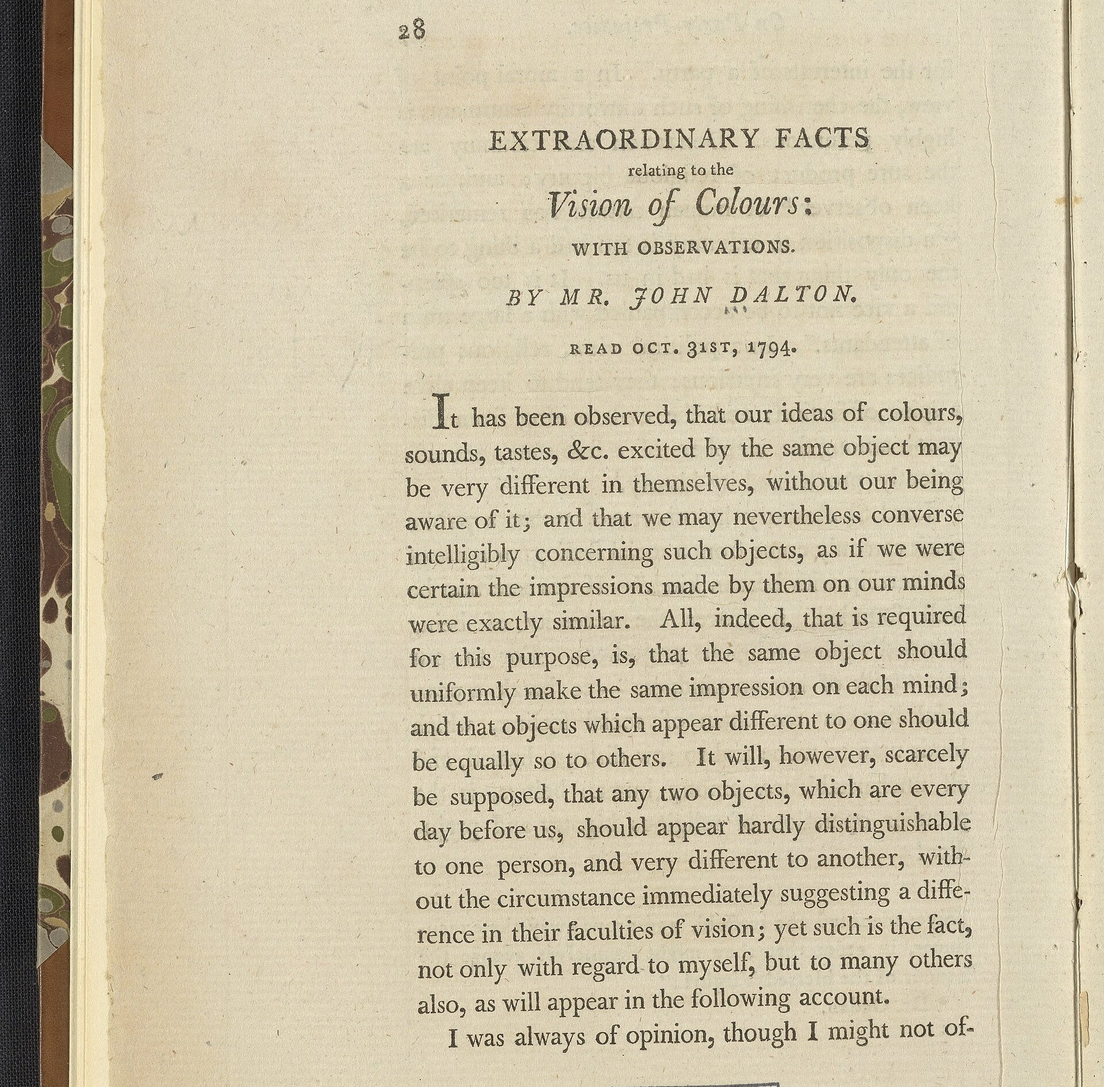
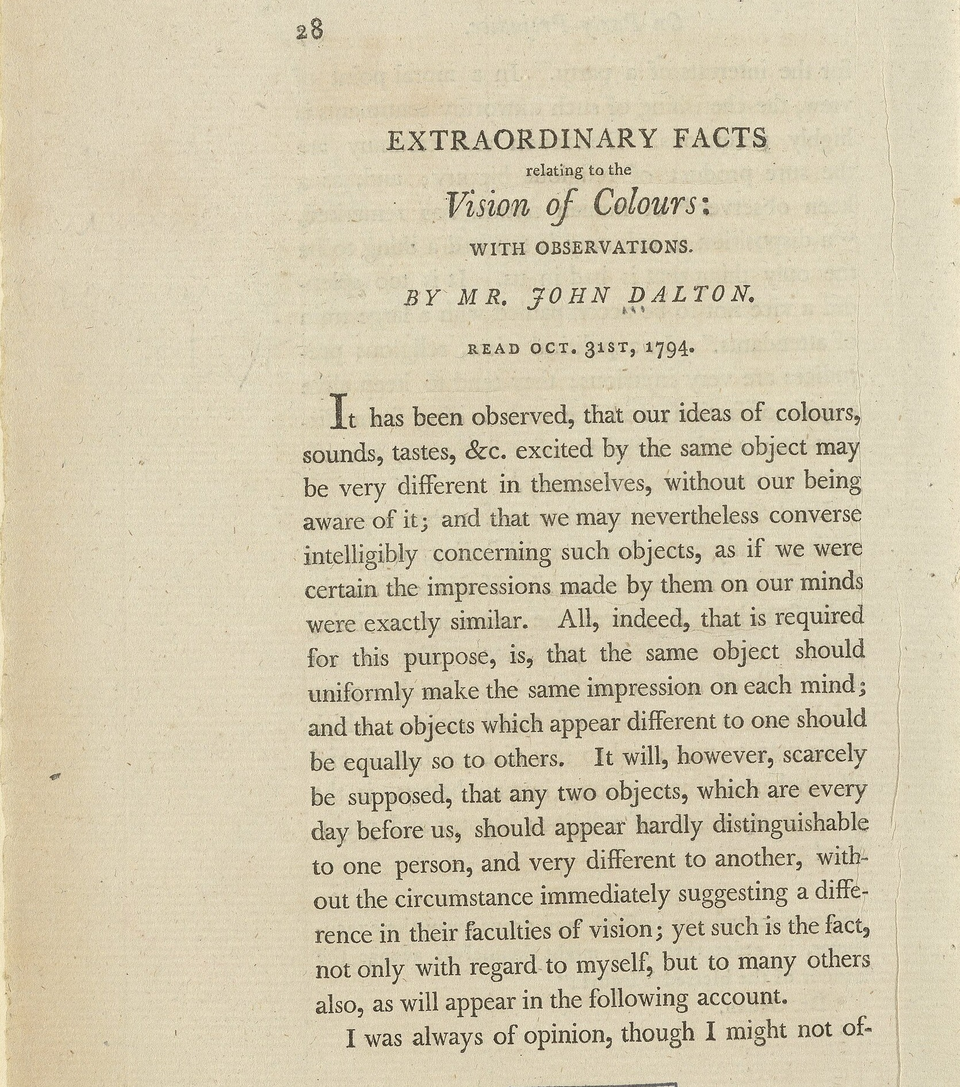
Act 3: Director brief, plan updated from it, p.28 cropped to the page
Claude-Session: https://claude.ai/code/session_011jaAAq7eeiJfiwMhe2vVQR

diff --git a/toolkit/episodes_src/WCL-E01/director/ep01-act03_brief.md b/toolkit/episodes_src/WCL-E01/director/ep01-act03_brief.md
@@ -1,0 +1,241 @@
+# WCL-E01 act 3 "The talk": Director's brief (directed shots)
+
+Written 23 Nov 2026, before the build, from `director/ep01-act03_plan.md`, script lines a3-01 to a3-15 (`WCL-E01_script_v2.json`), the gate 1 on-screen fact-check (`gate1_act3_onscreen_factcheck.md`) and the coordinator's fact-check items 1-10 (same day). The narration is not recorded yet, so every time is a word cue: "on 'laurel'" means the frame the word starts. When the paced take exists, the builder turns cues into seconds with the house offsets (a tag's landing sound on the settle frame, about atSec + 0.23 s; exits about 0.2 s early when they must clear a cut).
+
+Frame 1920x1080, 30 fps, house theme LOK-009. Calm version throughout (rule 12).
+
+Pictures I looked at: `manchester_plan_1794.jpg` (1920x1280, a crop of Green's plan), `dalton1798_p28.jpg` (1920x1890), `p30`, `p34`, `p43` (1920 wide), `henry1854_p25.jpg` (2288x4010), `laurel_runicearth.jpg` and `laurel_runicearth_leaf_cutout.png` (800x700), `sealingwax_petrik.jpg` and `sealingwax_petrik_cutout.png` (438 wide x 497 high), and the last frame of `WCL-E01_act2_v10.mp4` (BuildUpMap, eye on the "Why?" node at about (744, 424)). All coordinates in "image px" are pixels of the file named. All others are frame px.
+
+**Shot list (directed shots get a full table; plain cards get one line at the end):**
+
+| Shot | Lines | Component | Transition in |
+|---|---|---|---|
+| A_manchester_talk | a3-01, a3-02, a3-03 to "reads out a paper." | LayerStage (VIS-059) | from the act slate |
+| A2_title_match | a3-03 from "Its title is" | ArchivalScanCard p.28 | focus match (TRN-015) from A's page |
+| (card) | a3-04 | ArchivalScanCard p.34 | slide |
+| B_leaf_and_wax | a3-05, a3-06 | LayerStage (VIS-059) | push (TRN-006) from the p.34 card's laurel line |
+| (card) | a3-07 | SpectrumStrip x2 | cut |
+| D_into_the_eye | a3-08, a3-09, a3-10 to "It's tinted." | EyeDiagram, section | cut on the swell's hit |
+| (card) | a3-10 from "In his words" | ArchivalScanCard p.43 | cut |
+| C_carry_into_eye | a3-11 | EyeDiagram, section, + two carried cut-outs | cut back to the same eye |
+| (cards) | a3-12, a3-13, a3-14 | p.43 card, EyeDiagram simple, Henry strip | cut, cut, lens (TRN-017) |
+| E_dark_room | a3-15 | KineticLine, then PerspectiveGrid room | focus match (TRN-015) into the room |
+
+---
+
+## A_manchester_talk
+
+**The idea:** the plan is the town of the talk in its year. The college where he teaches is marked on it in the plan's own engraving ("Academy"). Then the paper he read that night is held up in front of the town.
+
+| Field | What it says |
+|---|---|
+| Line | a3-01 "So Dalton takes his question to the experts. Manchester, the last day of October, seventeen ninety-four." a3-02 "He moved to the town the year before. He's twenty-eight. He teaches mathematics and natural philosophy, the old name for the study of nature, at a college called the New College." a3-03, first sentence: "Tonight, he stands up in front of the town's Literary and Philosophical Society and reads out a paper." The shot ends at the match on "Its title is". |
+| Subject | One at a time. a3-01: the town, named by the dateline. a3-02: the New College, which is the building the plan itself labels "Academy". a3-03: the paper (p.28). |
+| World and why | SRC-009, Green's plan of Manchester (begun 1787, completed 1794). **Same place, same year.** `why: "Same place, same year: Manchester as Green finished mapping it in 1794, the year of the talk; the plan itself marks the college where Dalton taught."` |
+| Period honesty | A period map, labelled throughout `PLAN OF MANCHESTER · WILLIAM GREEN · 1794`, with the holder as the register gives it. No modern picture in the shot. SRC-009 limit: always with a dateline tag (it has one). |
+| Entry | The act slate is centred, so the eye is at frame centre. The world fades in under it (LayerStage pIn, 0.6 s). The DatelineTag starts `at: "low-centre"` (960, 860), just below where the eye already is. That spot is the open ground under St Peter's on the plan (image px about (915, 745)). Part 1 `MANCHESTER` arrives on "Manchester". Part 2 `· 31 OCT 1794` arrives on "October". `toCornerAtSec` on "moved" (a3-02) eases it to the corner (120, 84), out of the way of the college. |
+| Path and landing | **Framing:** `zoom 1.1`, `focus [0.4769, 0.37]`. That puts the "Academy" building (image px about (1185, 280)) at frame **(1280, 310)**, on the right third and upper third. It ends at about (1271, 307) after the camera move. St Peter's Church lands at about (1042, 702). The world's edges stay off frame through the whole move: left -128, right 2153, top -23, bottom 1498. **Facts (Labels, centred on x 1280, under the college):** `AGE 28` at y 490 on "twenty-eight". `TUTOR · MATHEMATICS AND NATURAL PHILOSOPHY` at y 536 on "mathematics" (about x 955-1605). **College:** a ring (MAP-008), centre (1280, 307), r 125, drawn on "college" ("at a college called"). It goes round the hatched building and leaves the engraved word "Academy" (frame about x 1268-1327, y 231-356) readable inside it. `NEW COLLEGE` (accent, `settle`) sits centred above the ring at (1280, 135) and lands on "New College". So the plan's own word and our label say the same thing. **Page (p.28):** a cut-out of the page only (see Asset 2), `w 560` (h about 637). It rises on "paper" and lands at **(560, 780)**: x 280-840, y 462-1098. Its bottom edge sits off frame on purpose. It is held up from below, the way he "stands up ... and reads out a paper", and that hides the scan's cut bottom edge. Its lead room faces right, towards the college. |
+| Scale | None for the world, apart from the camera's push. The page does not change size here. It grows by the match into the card (A2): we go into it. |
+| Action | The ring draws (0.7 s). The page takes the plan's light and lands lifted, with a soft shadow falling down and to the right. |
+| Exit | **Tags first.** `AGE 28` and `TUTOR · ...` un-wipe on "Tonight" (a3-03). `NEW COLLEGE` and the ring un-wipe 0.3 s later, so the right side is clear before the page comes. The dateline gets `untilSec` on "title" (a3-03), so it is gone just before the match. **The page does not leave.** A focus match (TRN-015) on "Its title is" opens A2's card in its place. |
+| Eye out | The page centre (560, 780). A2's card is centred on (568, 540), and the title it highlights first is at about (270-840, 180-220). The blur dissolve carries the eye up the page in place. |
+| Sound | The bed carries the world in. The dateline is silent (house). The pencil texture plays at -29 dB under the ring draw, which falls in the pause after "New College." SFX-016 `paper_move` at -24 dB plays on the page's settle frame (rise atSec + about 0.7 s), in the pause after "paper.". SFX-024 swish for the match plays in the pause before "Its". |
+
+**LayerStage choices**
+- `worlds[0]`: `{ atSec: 0, srcId: "SRC-009", kind: "image", size: [1920, 1280], zoom: 1.1, focus: [0.4769, 0.37], light: "paper"` (see Builder 4; fall back to `"none"`)`, haze: 0.06, blur: 1.5, rackSec: <the page's atSec>, lightFrom: "top-left", label: "PLAN OF MANCHESTER · WILLIAM GREEN · 1794", why: ... }`.
+- **Haze 0.06** only. For about 20 s the plan is the subject. Rule 14 says never blur the world's subject while the narration is about it, so the blur (1.5 px) racks in only when the page arrives, as the line moves from the town to the paper. The ring and labels have already un-wiped by then, so nothing we drew goes soft.
+- **lightFrom: there is no light in the picture.** It is an engraved plan, and the scan is evenly lit with no fall-off. I use the house `"top-left"` (the Weather shot), so the page's shadow falls down and right onto open plan and away from the dateline corner. This agrees with the seal photo's own light (see B).
+- **Lifted, not resting** (`rest` false, `enter: "rise"`). A page lying flat on a flat map would slide across it under parallax (near plane 1x, far plane 0.35x), which is wrong for a resting thing. A held-up paper can parallax, and the line has him stand up and read.
+- **Camera:** `{ pan: -40, push: 0.03 }`. The planes drift left, so the camera moves right, towards the college. That is the one slow move, and it has a destination (rule 6, rule 18).
+- **Where text sits:** the dateline starts in open ground low-centre, then goes to the top-left corner (built-up streets, on a chip). The facts sit under the ring over minor street names (Dickenson, Bond), 58 px below the ring. The college name sits above the ring in the top band (top about 120, inside the 84 px safe line). The world label sits bottom-right over the open fields ("Salford Poor" is at about y 951, 30 px above the chip).
+- **What the move uncovers:** the pan brings about 14 px more of the plan in on the right. Nothing is covered and then revealed: the labels leave before the page arrives, and the page never leaves.
+- **Rule 4 (the world's own subject):** the subject is the college, with the engraved word "Academy". The ring goes round the building, so nothing sits on it. The page's right edge (x 840) stays 300+ px from the ring and 130 px from St Peter's. The dateline corner covers only built-up streets.
+- **Rule 16 (lines tying planes):** passes. The plan's long straight streets (Peter Street, Cooper Street, the Oxford road) stay in the far plane, and no near thing continues them. The page is an upright rectangle on a plan whose streets run at about 55°, so there is no false joint. The ring must ride the far plane (Builder 2), or it will slip about 14 px off the building over the shot, and that is exactly the cardboard tear rule 16 warns about.
+- **Rule 13 (three planes):** far = the plan; near = the page. There is no mid plane, and that is accepted: the plan's own building hatching, stippled fields and hedges give the far plane texture at two scales.
+- **Stillness:** the dateline parts (a3-01), the corner move ("moved"), `AGE 28`, `TUTOR`, the ring and `NEW COLLEGE`, the un-wipes ("Tonight"), the page ("paper") and the match. The longest gap is "He moved to the town the year before. He's", about 3 s, and it holds the corner move. The camera moves throughout.
+
+**Changes to the plan (rule or fact-check):**
+1. **No pin on "Manchester".** The coordinator asked for the pin to stay "general on 'Manchester'", but on a street plan of Manchester a pin always names one street. Any spot I pick would say "the talk was here", and that is false: until Dec 1799 the Society met at Cross Street Chapel, which is outside this crop. It would also break rule 6 (a destination with no meaning). The dateline tag is the general marker. The only mark on the plan is the ring on the college, labelled as the college. It never says the talk was there, because the labels un-wipe on "Tonight", before the talk is described. If Sam wants a pin on the talk, it needs a wider crop of the plan with Cross Street Chapel in it (see Needs registering).
+2. The college label is split into three timed pieces with the fact-checked words (NEW COLLEGE · TUTOR · AGE 28, plus the subject). That way each lands on its own word and none sits on screen ahead of it.
+3. The plan's "p.28 rises onto the plan with the title and READ highlighted" is split. The page arrives in A, and the highlights are done on a card in A2. At w 560 on the plan the title is about 15 px tall, which cannot be read, and LayerStage cannot highlight a carried thing.
+
+## A2_title_match (focus match into the p.28 card)
+
+| Field | What it says |
+|---|---|
+| Line | a3-03 from "Its title is 'Extraordinary facts relating to the vision of colours'. The subject is his own eyes. It's his first paper to the Society." |
+| Subject | The printed title, then "READ OCT. 31st, 1794." |
+| World and why | ArchivalScanCard ground: the same plan, blurred (`ground` blur SRC-009). **Same place, same night.** The card is the paper he read, in front of the town. |
+| Period honesty | A period page. Source tag `JOHN DALTON · 1798 · P. 28`. |
+| Entry | TRN-015 focus match from A's page, in place. `side: "left"` with crop `[700, 160, 1000, 960]` (image px): card x 120-1016, centred on (568, 540). |
+| Path and landing | Highlights in image px, in reading order. `[840, 208, 690, 64]` "EXTRAORDINARY FACTS" on "Extraordinary". `[940, 318, 490, 76]` "Vision of Colours:" on "vision". `[975, 578, 425, 56]` "READ OCT. 31ST, 1794." on "first paper". On the card these sit at about y 180-220, 266-310 and 498-528. Quote column (right): the title without quote marks (`quoteMarks: false`), as the fact-check set it: "Extraordinary Facts relating to the Vision of Colours: with Observations". |
+| Scale | It grows from A's w 560 page to the 896 px card: we go into it. |
+| Action | Three highlight sweeps. |
+| Exit | A slide to the a3-04 p.34 card, which keeps the card's place on the left. It is not a second match: TRN-015 is never two in a row. |
+| Eye out | The READ line, at about (557, 513). The p.34 card's first highlight, ORANGE & YELLOW, is at about (477-796, 154) and is reached by the slide. |
+| Sound | SFX-024 at the match (above). The highlights are silent. |
+
+Asset: `dalton1798_p28.jpg` has a sliver of the cropped library stamp (blue) along the bottom edge at about x 1130-1355, y 1875-1890. The crop above stops at y 1120, so it is out of frame. A's page cut-out must also leave it out (it goes off frame anyway).
+
+---
+
+## B_leaf_and_wax
+
+**The idea:** the two things lift off the page beside the sentence that names them. The page is the world, because the comparison exists only as his written words.
+
+| Field | What it says |
+|---|---|
+| Line | a3-05 "Here's one. The face of a laurel leaf, he says, is a good match to a stick of red sealing-wax. That's the wax people once used to seal letters." a3-06 "Think about that. A green leaf, and a red stick of wax. To you, about as different as two colours get. To him, a match." |
+| Subject | a3-05: his sentence, then the leaf, then the wax. a3-06: the two things, ending as one colour. |
+| World and why | SRC-002, Dalton 1798 p.34, framed on the laurel sentence. **Same idea:** the exact words that make the comparison. The things come off the page that names them. `why: "Same idea: the sentence on p.34 where Dalton matches the laurel leaf to red sealing-wax; the two things lift off the page that names them."` |
+| Period honesty | A period page with world label `JOHN DALTON · 1798 · P. 34`. The two cut-outs are modern photos. The LayerStage `caption` (bottom-left, static) reads `PHOTOS TODAY · CHERRY LAUREL, RUNIC EARTH · WAX SEAL, PETRIK` (credit wording per register). The wax carries the state label `A WAX SEAL · TODAY` (coordinator item 5: the picture must not be called a stick). The olive is labelled `SIMULATION · ONE WAY` / `HE MAY HAVE SEEN THEM` (rule 19). |
+| Entry | A push (TRN-006) from the p.34 card's last highlight, the laurel line. With the a3-04 crop below, that is at about **[620, 598]**; measure it on the a3-04 still (DIRECTOR_NOTES, act 2 14+15). The world opens with the same line at frame (605-1822, 450), so the eye moves about 150 px. The world's highlights H1 and H2 are lit from frame 0, carried over from the card. |
+| Path and landing | **Framing:** `zoom 1.15`, `focus [0.538, 0.4797]` (s = 1.242). The frame shows image px x 260-1806, y 973-1842. The left page margin (image x 260-750) becomes a clear paper column at frame x 0-605. The text column is at x 605-1822. The GREEN heading is at the top (y about 141), which tells the viewer which part of the list this is. **Sentence (world highlights, image px):** H1 `[1645, 1252, 80, 50]` "The"; H2 `[745, 1308, 980, 54]` "face of a laurel-leaf (*Prunus Lauro-cerasus*) is a good" (frame y about 417-484); H3 `[745, 1366, 690, 54]` "match to a stick of red sealing-wax" (frame y about 489-556, ending at x 1447, before the semicolon). H3 lands on "match". **Leaf** (`laurel_runicearth_leaf_cutout.png`, [800, 700], `w 300`, h 263) rises on "leaf" ("laurel leaf") and lands at **(330, 360)**: x 180-480, y 229-491, top 21% of the frame, 125 px from the text column. **Wax** (`sealingwax_petrik_cutout.png`, [438, 497], `w 200`, h 227) rises on "sealing" and lands at **(330, 690)**: x 230-430, y 577-804. The pair brackets the sentence in height, with the leaf above its line and the wax below its line, and both face right towards their words. |
+| Scale | None. Both things become smaller in C, where they are part of a bigger picture (rule 7). |
+| Action | **One state change, for both at once, on "match" ("To him, a match"):** `color: "#574F18"`. That is the coordinator's target olive from the Machado deuteranope simulation of these two cut-outs (leaf #4F492A, wax #5F5405). It is not hand-picked. The leaf's and the wax's own colours stay untouched before that. The wax's earlier state label `A WAX SEAL · TODAY` (state on "seal letters", under the wax at y 826-864, x about 158-502) un-wipes automatically when the olive state starts. The SIMULATION label (world `labels`, x 120, y 830 and 868, size 22, left-aligned, x 120-470) comes in 0.45 s after "match", so the two never overlap. |
+| Exit | Labels first. The SIMULATION label `untilSec` and the caption `captionUntilSec` start about 0.6 s before the cut. Then a hard cut after "a match." to the SpectrumStrip. The things do not move out. |
+| Eye out | The olive pair at x 330 (y 360 and 690), with the label under them. The SpectrumStrip's title starts at x 210, y 250, and its strip at x 210, y 470: within 25% of the pair. |
+| Sound | SFX-020 low whoosh (-21.6 dB) in the pause before "Here's one" for the push. The house soft pop (-24 dB) plays on each settle frame: the leaf's falls in the comma pause after "laurel leaf," and the wax's in the full stop after "sealing-wax.". The olive state and the labels are silent. |
+
+**LayerStage choices**
+- `worlds[0]`: `{ atSec: 0, srcId: "SRC-002", kind: "image", size: [1920, 2934], zoom: 1.15, focus: [0.538, 0.4797], light: "paper"` (or `"none"`)`, haze: 0.08, blur: 2, rackSec: <"Think" (a3-06)>, lightFrom: "top-left", label: "JOHN DALTON · 1798 · P. 34", highlights: [H1, H2, H3], why: ... }`.
+- **Rack at "Think about that"**, not earlier. Through a3-05 the printed sentence is the subject and must stay sharp (rule 14). From a3-06 the subject is the two things, so the page softens to 2 px and the highlights soften with it.
+- **The on-screen quote is the page's own printed sentence**, highlighted and readable (x-height about 27 px at this scale). It is exact by definition, and it carries the print's italics. The highlight stops before the semicolon, which does the ellipsis's job. I recommend **no typed duplicate** in this shot: there is no open space for one, and two copies of one sentence would compete (rule 2). If the fact-check insists on typed text, the only clean place is a chip strip at the top, `"The face of a laurel-leaf (Prunus Lauro-cerasus) is a good match to a stick of red sealing-wax…"`. That would be serif 34 px with the Latin in italics, x 160-1760, y 110-160, on from "Here's one" until "Think". It would sit over the grass lines, not over the laurel sentence, with 70 px above the leaf.
+- **lightFrom "top-left", read from the pictures.** The page scan is evenly lit (copy stand), so it decides nothing. The seal photo is lit from the top-left: its upper-left rim is bright and its shadow sits lower right. The leaf is backlit (Asset 4). "top-left" agrees with the seal, with the house convention, and with shot A. The shadows fall down and right, a few px towards the text column, and are never thrown onto the highlighted lines (the things are 125 px clear).
+- **Lifted, not resting** (`rest` false, `enter: "rise"`, 140 px, 0.9 s). The plan says they "come off p.34", and lifted things may parallax. Resting things would slide over the words.
+- **Camera:** `{ pan: -40, push: 0.03 }`. The camera drifts right, towards the sentence, so the things keep their lead room. The far plane moves -14 px and the right edge then shows image x about 1817, still paper (the page edge and gutter start at about 1860). No tearing.
+- **Where text sits:** all our text is in the paper margin (x 120-502), 100+ px from the text column. Nothing sits on the page's text.
+- **What the moves uncover:** the rises cover only margin paper. The un-wiping wax label reveals margin paper. There is a small foxing spot at image px about (506, 1342), frame about (318, 457), under the leaf. It is period paper and fine either way.
+- **Rule 4:** the world's subject is the sentence at frame y 345-556, x 605-1822. Nothing lands on it. The plan said the things land "on their words", which would break rule 4, so this brief changes it to **beside** their words.
+- **Rule 16:** passes. The page's text lines are horizontal and stay in the far plane. The text column's left edge (x 605) is a vertical line that no cut-out touches or continues. The leaf's straight bottom edge (Asset 4) is not parallel to any page line.
+- **Rule 13:** far = the page (print, paper grain, show-through); near = the two things. There is no mid plane. As in A, the page's own grain and type give it texture.
+- **Stillness:** the push, H3 ("match"), the leaf ("leaf"), the wax ("sealing"), the wax label ("seal letters"), the rack ("Think"), the olive ("match") and the SIMULATION label. The longest gap is "A green leaf, and a red stick of wax. To you, about as different as two colours get." (about 4.5 s), which goes over the 3.5 s limit. The camera moves throughout. If the frame review finds it still, add a `TO YOU` label on "To you" in the margin at (120, 830), un-wiping on "To him". Do not add a colour change there.
+
+---
+
+## D_into_the_eye (cut on the hit into the cross-section)
+
+| Field | What it says |
+|---|---|
+| Line | a3-08 "Then he does what a scientist should. He offers an explanation." a3-09 "Your eye isn't hollow ... Light passes through it on its way to the back of the eye." a3-10 to "It's tinted." |
+| Subject | The eye, then the jelly, then the jelly tinted. |
+| World and why | None. This is a drawn diagram (VIS-019 section) on the theme canvas. It is plainly a diagram, so it needs no tag until the tint (below). |
+| Period honesty | While the jelly is blue, the corner tag reads `DALTON'S GUESS` (fact-check 7). The lens is drawn as a separate part, which the component already does. |
+| Entry | The SpectrumStrip holds through "Then he does what a scientist should." under the swell. The cut is on the swell's hit, at "He offers", and the cross-section draws in (0.9 s) on "explanation". The eye's centre (960, 540) is the strips' centre (960, about 518), so the eye does not move. The beam starts at x 210, the strip's own left end, so the light in the strip becomes the light going in. |
+| Path and landing | `parts`: `VITREOUS HUMOUR` at (1000, 480) on "vitreous humour". `beat` (the beam) draws on "Light passes" (drawSec 1.4), from x 210 to x 1280 along y 540. Tint: `{ part: "vitreous", color: "#3D6BD6", opacity: 0.5, atSec: <"tinted"> }`. That is act 1's lens tint colour (29+30+31 `inside.tint`), the callback. The tag `{ at: "corner", parts: [{ text: "DALTON'S GUESS", atSec: <"tinted"> }] }` arrives with it. |
+| Scale | The component drift only. |
+| Action | The label, the beam, then the tint. |
+| Exit | A hard cut after "It's tinted." to the p.43 card for "In his words". |
+| Eye out | The tinted jelly at (960, 540). The p.43 card's first highlight, "probably some modi-", lands at about (634-956, 245). That is a jump of about 500 px, carried by a hard cut onto a page. It is accepted, because the card is the same left-card layout the viewer already knows from a3-04. |
+| Sound | The swell-to-hit lands on the cut. The beam is silent, and the bed thins under it. |
+
+Check: `VITREOUS HUMOUR` (secondary ink) sits on the 50% blue once the tint is in. Check its contrast on the still. If it fails, set the label `atSec` so it is read before the tint, and let the tint pass under it.
+
+## (card) a3-10 from "In his words", and a3-12: p.43
+
+One line. A cut to ArchivalScanCard SRC-003, `side: "left"`, crop `[180, 900, 1080, 1040]`. Highlights in image px: `[805, 1048, 405, 46]` "probably some modi-" and `[250, 1098, 315, 46]` "fication of blue." on "probably". `[590, 1098, 620, 46]` and `[250, 1148, 180, 48]` "I suppose it must be the vitreous / humour;" on "supposes". The quote column has "probably some modification of blue", in near-silence (plan). a3-12 is a hard cut back to **the same card in the same place**, with the earlier highlights already lit, adding `[435, 1148, 775, 48]` "otherwise I apprehend it might be disco-" on "Otherwise" and `[250, 1203, 875, 48]` "vered by inspection, which has not been done." on "has not been done". The eye starts on the left card and ends on the bottom highlight, about (540, 385).
+
+---
+
+## C_carry_into_eye
+
+**The idea:** the leaf and the wax come back, in their own colours, out where the light comes from. The light from them crosses the blue jelly, and under his guess both go duller, darker and closer together. Nothing turns olive here: the olive is the modern model, kept to B (fact-check 8).
+
+| Field | What it says |
+|---|---|
+| Line | a3-11 "It makes sense. Think of looking at the world through blue glass. In Dalton's version, the tinted jelly soaks up much of the red and the green light before it reaches the back of the eye. Reds and greens would both look duller, and more like each other. And a red stick of wax might end up looking like a leaf." |
+| Subject | The beam losing its red and green in the jelly, then the two things it comes from. |
+| World and why | D's cross-section, returned to in the same place, already tinted (tint `atSec` at -1.2 s, so it is full from the first frame). **The idea itself:** his guess, drawn. The cut-outs are B's two things. **Same things:** the example he gave, put through his own explanation. |
+| Period honesty | The tag `DALTON'S GUESS` is in the corner throughout (fact-check 7 and 8). The cut-outs keep their B identity, with no caption repeated; the episode description credits them. The result label reads `HIS IDEA:` / `DULLER, AND MORE ALIKE`, which marks the picture as his model and not a record (rule 19). |
+| Entry | A hard cut back from p.43 on "It makes sense." to the identical framing of D. The eye was last there, so nothing jumps. **The things rise (`enter: "rise"`) on the full stop after "back of the eye."** They settle in that pause and are in place for "Reds and greens". They come up on the **left**, the side the light comes from in the diagram (rule 5). B also left them on the left, so the viewer finds them where they were. |
+| Path and landing | **Rays** (VIS-021): `{ colors: [red, green, blue], speed ..., atSec: <"In Dalton's version"> }` from x 210 to x 1280 on y 540. On "soaks up", red and green dots fade to about 30% between path u 0.55 and 0.75, which is the jelly's front edge past the lens at about x 800 (Builder 5). Blue passes. Red **and** green both thin (fact-check 7). **Leaf** w 180 (h 158) lands at **(300, 380)**, x 210-390. **Wax** w 140 (h 159) lands at **(300, 700)**, x 230-370. The beam starts between them at (210, 540), so the light reads as coming from them. Both are 170+ px clear of the cornea (x 560) and clear of the `VITREOUS HUMOUR` label. |
+| Scale | Smaller than in B (300 → 180, 200 → 140). They are now part of a bigger picture: the eye, the beam and the guess (rule 7). |
+| Action | **One state and one move, together, on "duller":** state `{ color: "#3D6BD6", blend: "multiply" }` (Builder 6). That is the jelly's own blue, laid over the things as blue glass would be. On the measured colours, the leaf (57, 84, 41) goes to about (14, 35, 34) and the wax (152, 19, 21) to about (36, 8, 18): both darker, both duller, far closer in brightness, and not the same colour. Moves: the leaf to (300, 440) and the wax to (300, 645), `sec 1.0`, `why: "Closer together as his blue jelly makes them more alike; still two things, not one colour."` The gap between them stays about 45 px, with the beam running through it. The result label lands 0.5 s after "alike" (x 120, y 790 and 830, size 22, left-aligned, x 120-483, outside the eye circle). Nothing new happens on "looking like a leaf". The line pays off a picture that is already there. |
+| Exit | The label un-wipes about 0.6 s before the cut. A hard cut on "He has a reason" (a3-12) to the p.43 card. |
+| Eye out | The pair at (300, 440-645). The p.43 card is on the left (x 120-1012), and its new highlights land at about (540, 330-385): within 25%. |
+| Sound | The house soft pop at -26 dB on the pair's settle, in the pause after "eye.". The rays and the state are silent. The bed stays low, so the a3-12 near-silence lands. |
+
+**Layer choices (not a LayerStage):** the cross-section is a drawn component, not a registered picture, so it cannot be a LayerStage world. The cut-outs are carried in by EyeDiagram's own `carry` (Builder 6), so they use the LayerStage carry code: lifted shadow, `light: "none"` (a flat drawn world, no cast and no wrap), `lightFrom: "top-left"` as in A and B. There is no parallax and no camera move apart from the diagram's drift, so rules 13-15 do not apply. **The cut-outs must sit inside the same drifting layer as the diagram.** If they do not, the beam's start (x 210) slides away from them as the diagram scales (0.02), and the beam is the one line that ties them to the eye (rule 16 in a drawn shot). **Rule 4:** the diagram's subject is the jelly and the beam inside the circle (x 630-1290). The things stay outside the circle, and the label stays below them.
+
+**Change to the plan:** the plan's "drift together" as the olive is out (fact-check 8). The things arrive in their own colours. They darken by his blue-glass idea, multiplied by the jelly's tint, and move a little closer. They stay two colours.
+
+## (cards) a3-12 to a3-14
+
+- **a3-13 "So the only way to check the jelly is to open an eye. And Dalton only has two."** A cut to EyeDiagram `mode: "simple"`, centred (960, 540), where the section's centre was. `openKeys`: open 1; on the pause after "two." close to 0 and reopen 0.35 s later (one blink). Near-silence (plan). The eye starts and ends at the centre. The section cannot blink, which is why the mode changes on the cut.
+- **a3-14 Henry p.25 "his strongly expressed wish".** A lens settle (TRN-017) onto a **line strip, not the page card.** It is cut from SRC-007 at image px `[90, 1140, 2110, 135]` (the two lines "of the eye, which was carefully made after Dalton's death, / in conformity with his strongly expressed wish, by his skilful"), laid on a dark ground of the same page blurred (the act 1 27+28 strip pattern), with source tag `WILLIAM HENRY · 1854 · P. 25`. The highlight `[732, 1225, 562, 50]` "his strongly expressed wish" comes on "strongly". Why a strip: an ArchivalScanCard crop is held near square (860 px high), so any crop round the wish line also shows "This theory was not, however, verified by an examination of the eye" (it gives away act 6) and "The vitreous humour was of a pale yellow colour", which contradicts Ransome (fact-check 9). A callout dim leaves both still readable. The eye starts and ends on the highlight, at about (700, 540).
+
+---
+
+## E_dark_room (the act's exit, handing over to act 4)
+
+| Field | What it says |
+|---|---|
+| Line | a3-15 "But a blue tint only explains colours if we know what colour is. And on that, Dalton leans on one man. A man who died long before Dalton was born." |
+| Subject | The question, then the dark room where its answer starts. |
+| World and why | PerspectiveGrid room. **Same place as act 1's Newton tease (35+36) and act 4's opening:** the same room, the same shutter, unnamed. `depth 2000, dark 0.7, dolly 0.02, fog 0.15`, with one object: `{ kind: "shutter", at: [-1050, -150, 600], w: 260, h: 360 }`, as in act 1. No hole, no beam and no tag. |
+| Period honesty | A drawn room, plainly a diagram. No name is given: the line does not name him either. |
+| Entry | First a KineticLine: "What is colour?" on the left (x 120, y 385), landing on "what colour is", with the accent fill on "colour". Then, on "one man", a focus match (TRN-015) into the room. The shutter's screen position is about (280, 370); read it off act 1 v18 at 35+36. That is where the question's first word was, so the eye stays put. |
+| Path and landing | The room fades up around the shutter. The dolly (0.02) is the only move, so the shutter sits on the left third with the room's depth to its right as lead room. |
+| Scale | The dolly only. |
+| Action | None. On "born" the room holds, and the bed alone carries 2-3 s (plan). |
+| Exit | Hard cut or fade at act end. **Act 4 opens on this exact framing** and darkens the room on "So he darkens his room", then makes the hole on "small hole" (a4-03). |
+| Eye out | The shutter at about (280, 370). Act 4's first change (the hole) is at the same point. |
+| Sound | SFX-024 swish for the match in the pause after "colour is.". Then the bed alone. |
+
+**Change to the plan: no door.** "A dark-room door begins to close" is not in any source. Newton darkened his room by closing the window shutter and then made a hole in it (a4-03: "So he darkens his room. He makes a small hole in his window shutter."). A closing door would be an invented image, and it would also take act 4's beat ("darkens") away from it. So act 3 ends on the same room, already dim, with the closed shutter that act 1 introduced and that act 4 will open. This needs no new component work.
+
+---
+
+## Plain cards and pages (one line each)
+
+- **a3-04, p.34 card (SRC-002).** A slide from the p.28 card, keeping `side: "left"`. Crop `[470, 600, 1300, 1290]` (card x 120-987, the ORANGE & YELLOW heading at the top). Highlights in reading order: `ORANGE & YELLOW.` `[1000, 620, 500, 50]` on "lists". `GREEN.` `[1150, 1065, 190, 48]` on "one by one". Then H2 of B `[745, 1308, 980, 54]` on "examples". The eye starts at the top heading and ends on the laurel line at about (620, 598), the point B pushes from. Hold it at least 4 s (plan). There is no "scrolling": the drift is enough, and a scroll would move the line B needs to push from.
+- **a3-07, SpectrumStrip x2 (VIS-014).** Top: `OTHERS · DALTON'S SIX` with red, orange, yellow, green, blue, purple. Bottom: `DALTON'S WORDS`, with the red end dim but not black, **one** yellow fading from strong to pale under orange, yellow and green, blue under blue, and a darker blue under purple (fact-check 10). Quote, typed only: "little more than a shade, or defect of light", source `DALTON · 1798 · P. 31` (fact-check 4: p.31, not p.34). Typed counts: "I see only two or at most three distinctions" (no comma after "two"). The eye starts at the strip's left (x 210, which is where B left it) and ends at the strip's centre, where D's eye opens.
+
+---
+
+## Problems found (assets, counts, rules)
+
+**Assets**
+1. **SRC-009 is a 1920x1280 crop.** At zoom 1.1 the plan is enlarged by about 1.19x (cover 1.08 x 1.1). That is soft but acceptable, and it matches the Howard plate in Weather. A larger scan of the same sheet (Manchester Digital Collections, PR-R-15369, per the fact-check) would be sharper. Cross Street Chapel, where the Society met in 1794, is not in the crop, so no pin can mark the talk (A, change 1). Not blocking.
+2. **p.28 (`dalton1798_p28.jpg`, 1920x1890)** includes the binding and marbled board (x 0-185), the facing-page gutter (x > 1840) and a blue sliver of the cropped stamp at the bottom (x 1130-1355, y 1875-1890), and the page is cut off below "not of-". Shot A needs a **page-only cut-out**, about image px `[190, 0, 1645, 1870]`. Its straight bottom edge is hidden, because the page lands with its bottom off frame. A2's card crop stays above y 1120.
+3. **Wax (`sealingwax_petrik_cutout.png`, 438x497):** it is a pressed modern fleur-de-lis seal, not a stick, and it is slightly out of focus. **It is acceptable here** for three reasons. The comparison is of colour, and the seal is the same red wax. The narration's next sentence ("the wax people once used to seal letters") is about exactly this use. And the state label says what it is (`A WAX SEAL · TODAY`), so the printed "a stick of" beside it is not contradicted silently. The quote keeps "stick", and no label or caption calls the picture a stick (coordinator item 5). **A better source is still wanted:** a photo of red sealing-wax **sticks**, ideally a period object from a CC0 museum collection. If one is registered, it replaces the seal and the wax label is dropped. Note also that the cut-out's alpha tops out at 254, not 255. That is harmless, but the builder should know it if a 1-level halo shows at 200%.
+4. **Leaf (`laurel_runicearth_leaf_cutout.png`, 800x700):** the species looks right (cherry laurel, finely toothed edge, per the fact-check). Three problems: (a) **it is backlit**, with glowing veins and a translucent body, so it is probably the paler **back** of the leaf. Dalton matched the **face** to the wax and the back to "the lighter red of wafers". (b) Its light (from behind) disagrees with a front-lit page, which is a rule 17 note waiting to happen. (c) **The cut-out has a straight crop edge** along its bottom (alpha bottom at about y 679-687 from x 70 to 300) where the photo cut the leaf off, and the stalk end is missing. On a floating cut-out that edge reads as a torn photo. **Accepted for the first build, because nothing on screen calls it "the face".** A better source is wanted: a whole cherry laurel leaf (tip and stalk), photographed front-lit from above on the glossy upper face. It gets the same treatment, and the colour measurement for the olive must be re-run if it changes.
+5. **Henry p.25** shows the spoiler line ("not, however, verified") and the "pale yellow" line next to the wish. Hence the line strip (above) and a derived file `henry1854_p25_wish_line.png` (register it as a file of SRC-007).
+6. **p.31** is not local. The prism quote is typed only, credited to p.31 (fact-check 4).
+
+**Count limits (the builder must count on the beat sheet before Gate 2)**
+- **SRC-014 and SRC-015 are "max 3 beats per episode" each.** B (a3-05 and a3-06, about 7 beats) and C (a3-11, about 3 beats) already go over, and SRC-014 is also planned for act 5's return. Either Sam raises both limits (proposal: 10 each, for "Dalton's own laurel and wax example and his explanation of it, acts 3 and 5"), or C drops the cut-outs, which would lose the act's payoff picture. The Director recommends raising them.
+- **SRC-009 is "max 4 beats per episode".** Shot A runs about 2.5 script lines (roughly 8-9 beats at about 3.7 beats a line), and A2's blurred ground uses it again. Either Sam raises SRC-009 to about 10 for this act's opening, or A2's ground changes from SRC-009 to SRC-029 blurred and A is checked to fit. The Director recommends raising it: it is the only place picture in the act.
+- VIS-059: A and B make 2 of the 2 allowed this act. C and E are not LayerStage.
+- TRN-015 (focus match): A → A2 and KineticLine → room, never two in a row. TRN-006 (push): p.34 → B. TRN-017 (lens): Henry only. TRN-018: no world changes in A or B.
+- VIS-019 (max 10 beats per episode): D, C and a3-13 come to about 9-10 beats, and acts 1 and 6 also plan eye beats. Count them, and if needed fold a3-13's blink into fewer beats.
+
+**Rules the plan broke, and the fixes**
+- A pin "on 'Manchester'" (rule 6, and the talk was not at any spot in this crop) → no pin. The dateline does the general job, and a ring on the plan's own "Academy" marks the college as the college (A, change 1).
+- Things landing "on their words" in B (rule 4) → beside them, in the page margin.
+- p.28 highlighted while it is a w 560 cut-out on the plan (it cannot be read, and LayerStage has no carried highlights) → a focus match to the p.28 card (A2).
+- The olive inside the eye (fact-check 8, and it would make the modern model look like the effect of his guess) → C uses his blue-glass idea, multiplied by the jelly's blue, and stays two colours.
+- A dark-room "door" (not in any source, and it takes act 4's beat) → act 1's shutter room, unchanged, handed to act 4.
+- p.34 "slowly scrolling" in a3-04 → held with highlights, so B's push point is fixed.
+
+## Builder notes (what the components do not do yet; each goes through strict stills)
+1. **LayerStage `tag`** (DatelineTag props, as EyeDiagram and PeriodMapPlate have), for A's dateline `low-centre` → corner.
+2. **LayerStage `worlds[].rings` and `worlds[].pins`** (MapPin and ring specs in image px), drawn **inside the far plane** so they move and scale with the world, but **outside its blur filter**. For A's ring.
+3. **LayerStage `worlds[].highlights`** (`{ box: [x, y, w, h] in image px, atSec }`, the ArchivalScanCard highlight look), drawn in the far plane (they blur with the rack, which is wanted). For B. `atSec <= 0` means lit from frame 0.
+4. **Optional light key `"paper"`** for a period page or plan world: grade `none`, cast `rgba(255,236,205,0.10)`, shadow `rgba(58,40,20,`, near grade `sepia(0.06) saturate(0.92)`, wrap `#fff3e0` at 0.15. The modern cut-outs then sit in the page's warm light without a saturation jump (rule 17). Fallback `"none"`, then check the jump in the frame review.
+5. **RaySpec `absorb`**: `{ atSec, colors: [red, green], from: 0.55, to: 0.75, keep: 0.3 }`. Dots of those colours fade to `keep` alpha between those path fractions. For C.
+6. **EyeDiagram `carry`** (export LayerStage's `Carried`), rendered inside the diagram's drift transform, and **CarryState `blend?: "color" | "multiply"`** (default `color`). For C's blue-glass state.
+7. **LayerStage `labels` `size`** is already in LabelSpec. Use size 22 for the two-line SIMULATION and result labels.
+
+## Needs registering
+- The page-only cut-out of p.28 (Asset 2), as a file of the p.28 source.
+- `henry1854_p25_wish_line.png`, a strip of SRC-007 (Asset 5).
+- **Proposed, not added** (Director only proposes): (a) a red sealing-wax **stick** photo, CC0 or public domain, preferably a museum object; (b) a whole, front-lit cherry laurel leaf, upper face; (c) optional, a larger scan of Green's 1794 plan that includes Cross Street Chapel, only if Sam wants the talk's place marked. Each goes through the register (row, best use and limit, licence, Drive copy) and the fact-check.
+- Count-limit changes for SRC-014, SRC-015 and SRC-009 (above): Sam's decision.
+
+## Checks for the frame review (stills to request)
+- **A:** first frame after the slate; "October" (the dateline fully in, low-centre, clear of St Peter's); "New College" + 0.8 s (the ring round the building, "Academy" readable inside it, labels 58 px clear); "Tonight" + 0.6 s (the right side clear); the page's settle (shadow down-right, the bottom edge off frame, no halo at 200%); the last frame before the match.
+- **A2:** each highlight landing.
+- **B:** frame 0 after the push (H1 and H2 lit where the card had them); the leaf's settle; the wax's settle (the 86 px gap between them, and the leaf's straight edge at 200%); "seal letters" (the wax label clear of the text column); rack end; the olive + 0.8 s (the SIMULATION label clear and the wax label gone); the last frame.
+- **C:** the settle (beam start between the pair); "duller" + 1.0 s (both darker, not the same colour, the beam in the gap); the label; the last frame.
+- **E:** "colour is" (the question on the left), the match midpoint, and the shutter at about (280, 370) on the last frame, compared side by side with act 4's first frame.

diff --git a/toolkit/episodes_src/WCL-E01/director/ep01-act03_plan.md b/toolkit/episodes_src/WCL-E01/director/ep01-act03_plan.md
@@ -25,3 +25,13 @@ Sound (calm, Johnny Harris study): Wholesome bed stays; swell-to-hit under "Then
 - Shot C (changed): inside the blue-jelly eye the two cut-outs go dull and darker under the blue (his own blue-glass idea), under the DALTON'S GUESS tag. The olive (the modern model) never appears inside his guess.
 - Henry p.25: the "pale yellow" vitreous line two lines below is dimmed (it contradicts Ransome p.202 and act 6).
 - Spectrum bottom strip: red end dim, not black; one yellow fading from strong to pale under orange, yellow and green; blue under blue, darker blue under purple.
+
+## Changes from the Director's brief (23 Nov 2026, director/ep01-act03_brief.md; the brief wins on how each shot looks)
+- Shot A: no pin at all. Any pin on a street plan names a street and would read as the venue, so the dateline does the general job. A ring sits on the plan's own "Academy" building, with AGE 28 / TUTOR · MATHEMATICS AND NATURAL PHILOSOPHY / NEW COLLEGE, each on its word. p.28 is held up from below, lifted, and a focus match on "Its title is" opens a p.28 card (new A2) where the title and READ line are highlighted.
+- Shot B: the world is p.34 framed on the laurel sentence. The page's own highlighted line is the quote. The leaf and wax land in the margin beside it, not on the words, and both turn #574F18 on "match" under the SIMULATION label. The wax is labelled A WAX SEAL · TODAY.
+- New shot D (into the eye) and C as the fact-check asked: no olive inside his guess; the two things darken by the jelly's blue (#3D6BD6, multiplied) and stay two colours; red and green dots thin out.
+- Ending E: no door (no source has one, and closing anything here takes act 4's "So he darkens his room"). Act 3 ends on act 1's shutter room, and act 4 opens on that exact framing.
+- Henry p.25: shown as a strip of just the two lines around "his strongly expressed wish".
+- p.28 re-cropped to the page only (1669x1890; binding and facing page off).
+- For Sam at Gate 1: raise the beat limits on SRC-014/015 (3) and SRC-009 (4), which shots A-C go past (the Director recommends raising rather than cutting); a front-lit whole leaf and a stick-of-wax photo would be better than the current pair.
+- Builder additions the brief needs (LayerStage dateline, rings/pins on the world, highlights on a world, "paper" light, rays fading by colour, carried cut-outs inside EyeDiagram with a multiply state): built only after Sam's yes on the plan.
